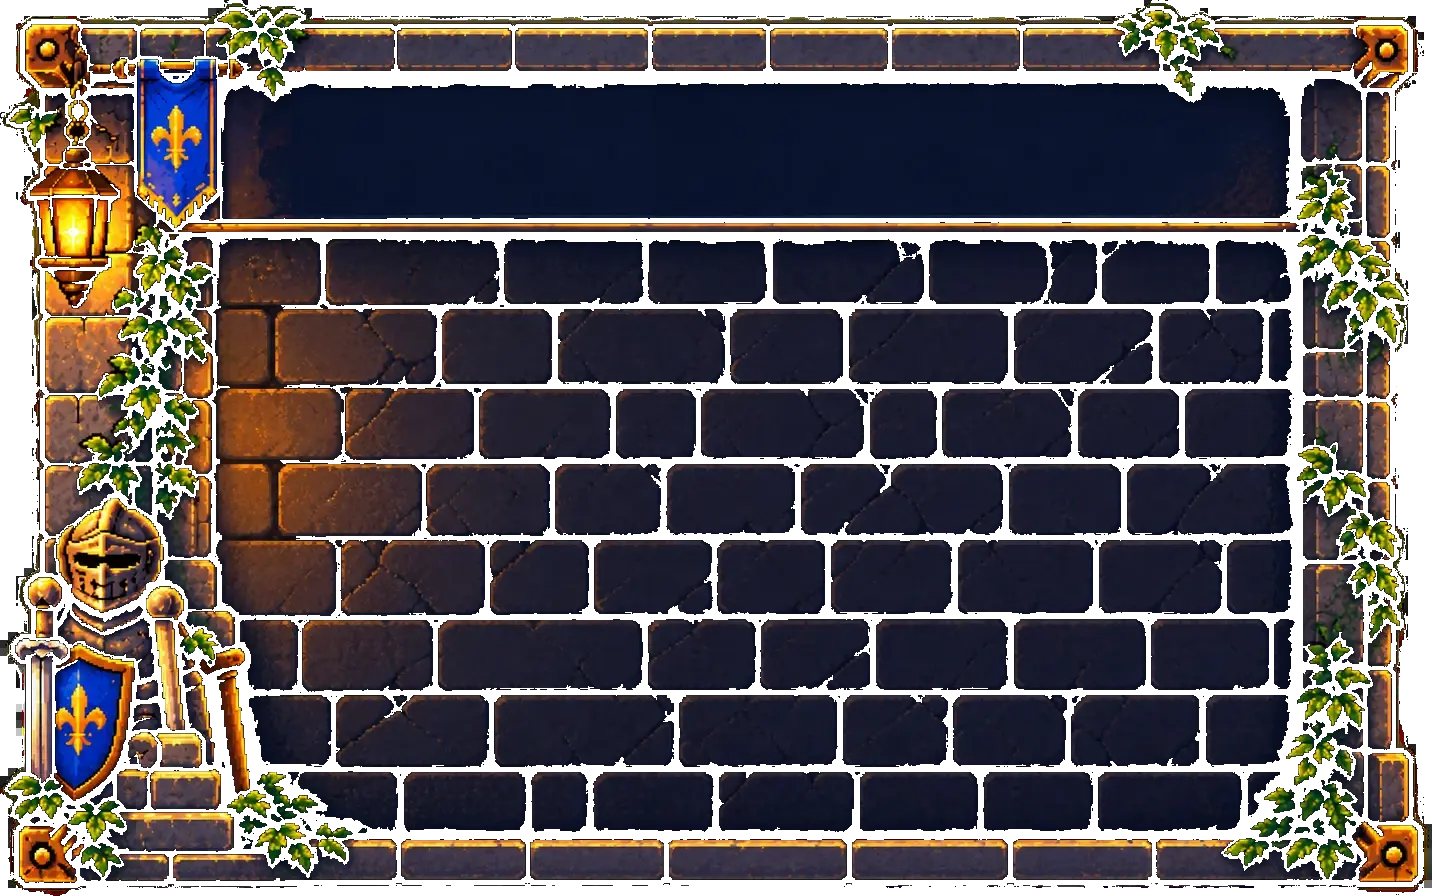
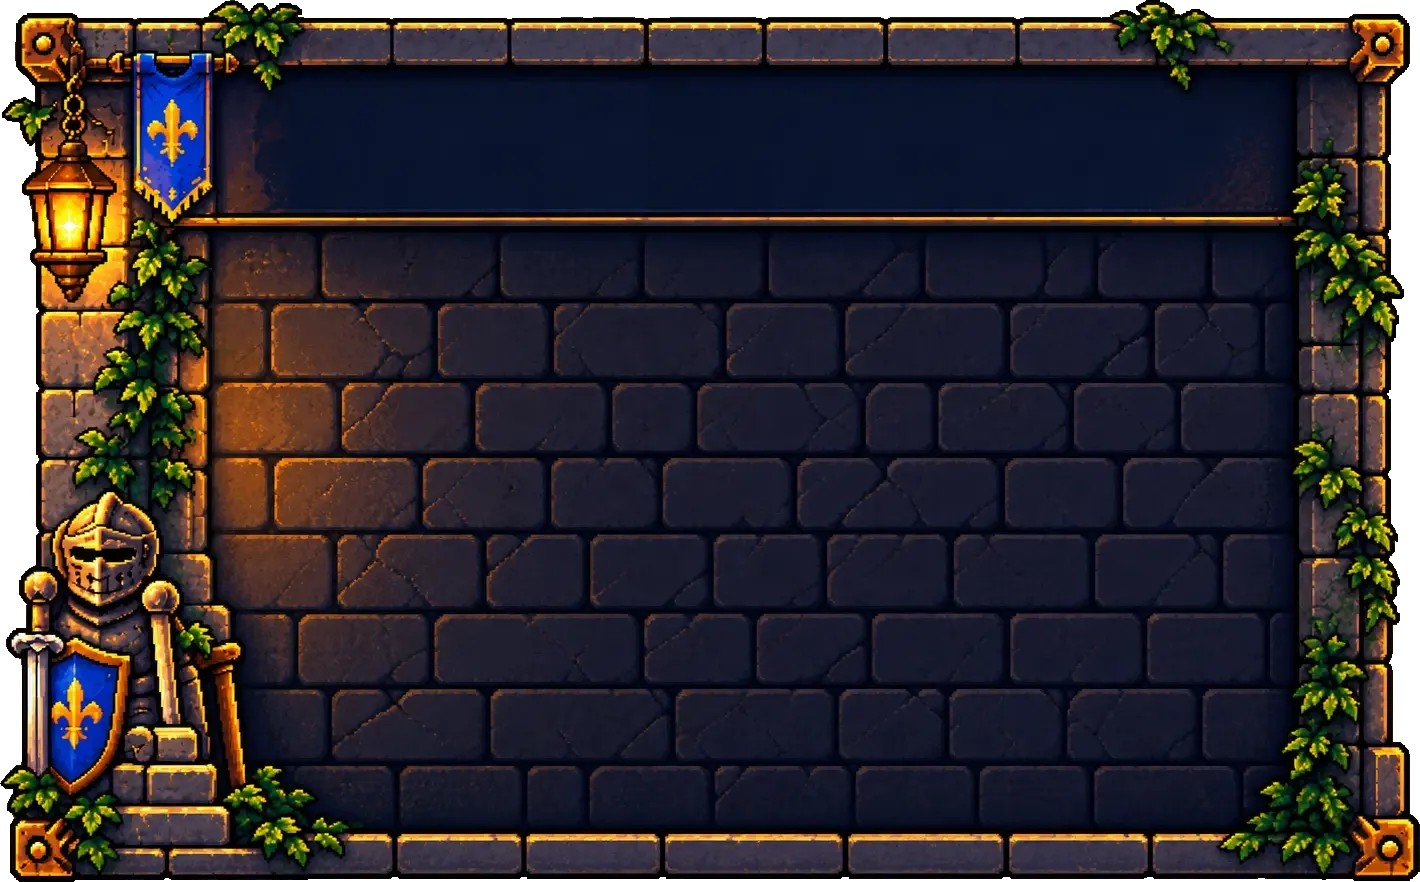
Diario: bacheca dal PNG trasparente originale, bordi puliti
Claude-Session: https://claude.ai/code/session_01Ly8M64WoiNxbZKkFq6qyb5

diff --git a/css/pixel.css b/css/pixel.css
@@ -3384,11 +3384,11 @@ html[data-theme="day"] .theme-toggle .icon-moon {
 .level-screen {
     position: fixed;
     container-type: inline-size;
-    width: min(1100px, 94vw, calc(92vh * 1432 / 896));
-    width: min(1100px, 94vw, calc(92svh * 1432 / 896));
+    width: min(1100px, 94vw, calc(92vh * 1420 / 882));
+    width: min(1100px, 94vw, calc(92svh * 1420 / 882));
     max-width: none;
     max-height: none;
-    aspect-ratio: 1432 / 896;
+    aspect-ratio: 1420 / 882;
     padding: 0;
     overflow: visible;
     font-family: var(--font);
